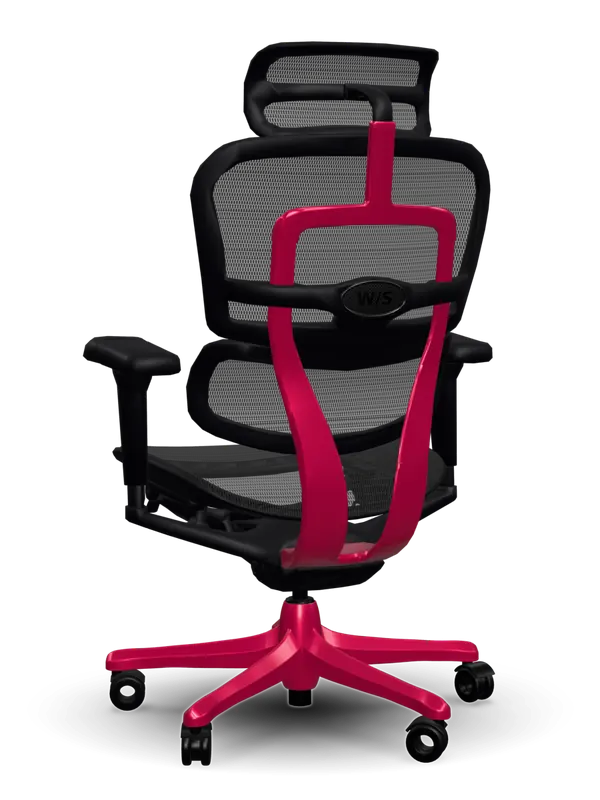
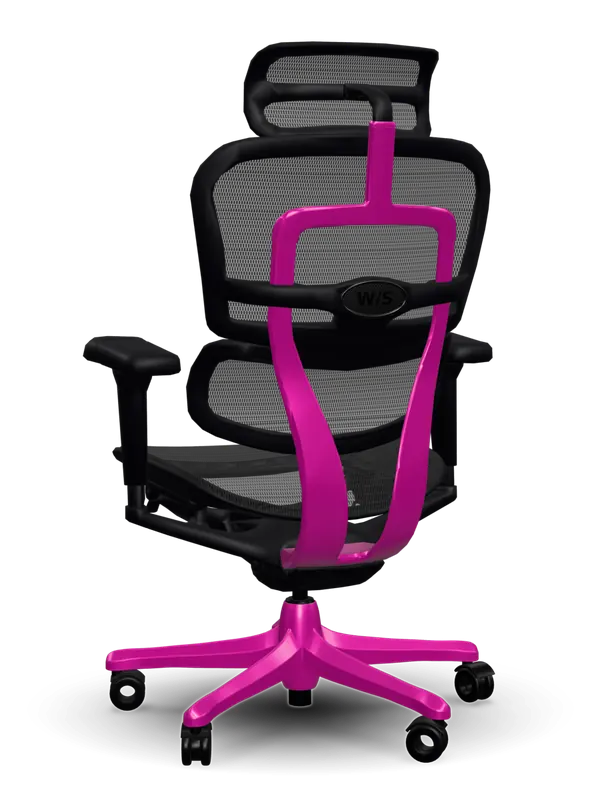
Workspace's colors: Proton Sparkle in Hulk Green's place, and Dazzling Pink in the magenta of its photographs
Follows 1914c69, which brought in the photographs (Dom's call of 27 Nov, as the session on his Mac
relayed it): Hulk Green, too near Mantis Green, gives its place among the sixteen to Proton Sparkle, a
paint that goes from maroon to copper; and Dazzling Pink's photographs are the Luxury Pink set, so its
value is their magenta and not the pink-red it was. Both values are taken from the paint in the
photographs. The chair's stills are made again for the two (tools/chair-mockups.cjs), Hulk Green's is
gone. No color has one upright photograph by itself any more, so the check of that layout goes, and
the pair is checked on Giallo Yellow. The checks also say that a tray added to is the eight again on
the next visit. The real store's Products row is Shrug's to change.

Claude-Session: https://claude.ai/code/session_01MeY8wg1fDxHwYAX5r8pd6y

Changed region(s): [[0.45, 0.125, 0.78, 0.7188], [0.18, 0.75, 0.81, 0.9062]]

diff --git a/store/shared/colors.ts b/store/shared/colors.ts
@@ -4,9 +4,9 @@
 //
 // They are Shrug's own: the names, finishes and values are from the Workspace design as redrawn on 25 Nov
 // (the "Sixteen more" board of the Shrug.VIP v1 designs, set from the catalog's swatches converted to sRGB;
-// where a swatch and the reference photographs disagree, as for Hulk Green and Dazzling Pink, the
-// photographs won). The reference photographs are the standard for the paint: a value here is where the
-// match starts. Change one here and everything that shows the color follows.
+// where a swatch and the reference photographs disagree, the photographs won). The reference photographs
+// are the standard for the paint: a value here is where the match starts. Change one here and everything
+// that shows the color follows.
 
 /** How a paint is finished. One paint material, in seven settings (and Matte Leather's, which has no gloss). */
 export type Finish = 'matte' | 'gloss' | 'pearl' | 'metallic' | 'shift' | 'holo' | 'uv'
@@ -41,11 +41,14 @@ export const MORE_COLORS: MoreColor[] = [
   { id: 'nuclear-pink', name: 'Nuclear Pink', color: '#fa9a9a', finish: 'uv' },
   { id: 'championship-green', name: 'Championship Green', color: '#0b9d6e', finish: 'metallic' },
   { id: 'interstellar-black', name: 'Interstellar Black', color: '#2d3140', finish: 'holo', shift: ['#23242e', '#4f6488', '#6a5690', '#2d3140'] },
-  { id: 'hulk-green', name: 'Hulk Green', color: '#42a549', finish: 'metallic' },
+  // (Proton Sparkle took Hulk Green's place on 27 Nov, Hulk Green being too near Mantis Green: a paint that goes
+  // from maroon to copper, its values taken from the paint in its own photographs)
+  { id: 'proton-sparkle', name: 'Proton Sparkle', color: '#9a4c36', finish: 'shift', shift: ['#561d1a', '#9a4c36', '#d07c58'] },
   { id: 'reserve-green', name: 'Reserve Green', color: '#978d47', finish: 'shift', shift: ['#15431d', '#3e7839', '#b98e44', '#f5c077'] },
   { id: 'nuclear-green', name: 'Nuclear Green', color: '#aaf68e', finish: 'uv' },
   { id: 'nuclear-violet', name: 'Nuclear Violet', color: '#e9a6e8', finish: 'uv' },
-  { id: 'dazzling-pink', name: 'Dazzling Pink', color: '#ce184e', finish: 'metallic' },
+  // (Dazzling Pink is the magenta of its photographs, which since 27 Nov are the Luxury Pink set: it was a pink-red)
+  { id: 'dazzling-pink', name: 'Dazzling Pink', color: '#e434a6', finish: 'metallic' },
   { id: 'palleon-panther', name: 'Palleon Panther', color: '#939f9b', finish: 'shift', shift: ['#9da2aa', '#8fb8b0', '#8fa9c9'] },
   { id: 'giallo-yellow', name: 'Giallo Yellow', color: '#f2c81b', finish: 'gloss' },
   // (Manhattan Blue took Tiffany Blue's place on the launch list of 27 Nov: a pale aqua metallic, its value taken

diff --git a/README.md b/README.md
@@ -56,7 +56,7 @@ A new window opens where it covers least of the others, and clear of what sits o
 - **Photographs**, in Wallpapers. The window has two sections now: the five colorways, and Photographs, twenty by the team, four across (design/v1, "Wallpapers"). One opens large, with which of the twenty it is, its title and who took it, Download and Set as Wallpaper. None has been supplied (`src/data/photographs.ts`): the demo shows the twenty as tones with templated titles and both buttons off, and the live site shows only the ones that are there, and no Photographs section until there is one. For a photograph to be set as the wallpaper it has also to be among the desk's own pictures, which `tools/wallpaper.cjs` writes.
 - **A message to Shrug, on the desktop** (design/v1, "Group Chat"; `src/apps/Write.tsx`). Messages is two panes side by side, as on a Mac. The pencil at the head of the conversation's pane starts a message whose only recipient is Shrug, as the compose button does on the iPhone; it is a row at the head of the list, New Message, which stays there while another conversation is looked at, until its x puts it away (and what was typed with it). A subject can be picked, of three: Add a testimonial, Request an intro (a name, and who), Request a meeting (a name, an email, and files: ten of 25 MB each). Or it is simply typed and sent, as a message is: the subjects are offered until something is typed, and after a message the offer is "More to say?". The plus for files is there once a message is begun. Sent, it is in the conversation under its subject. Delivery is honest: it goes to the site's inbox where there is one (`SITE.contact.inbox`: `api/message.js`, switched on with `VITE_INBOX`), and with none a live site says Not Delivered, with Try Again, and never Delivered. The demo, which stands in for everything else, shows it as Delivered and says under it that nothing was sent.
 - **The art's widget** (`src/os/ArtWidget.tsx`; Niv, 27 Nov) is on the desk under San Francisco's, the same size: one art piece at a time, drawn as Apple's News widget is (Dom, 27 Nov: the artwork itself fills the widget, and over its foot, in white, is ArtStore with the piece's name under it, as a headline is under its paper's name; it was the piece's photograph on white with small gray words), each of the pieces that has its photograph in turn (seven seconds each, the next coming up through the last), with its name. It is the way into ArtStore from the desk: pressed, ArtStore opens on the piece that is showing. It shows what the site already has (the product shots, by the names Shrug gives the pieces: `ART` in `store/src/pictures.ts`), so nothing is asked of the store until it is pressed; it keeps still on a desk asked to (`?still`). New windows are kept clear of San Francisco's widget and so, beside it, of this one; one that opens lower down may lie over it, as a window on a Mac lies over a widget (kept clear of too, it took the left of the desk from new windows, which then opened on one another). **ArtStore's icon** is Dom's own picture for it (27 Nov; `public/icons/artstore.webp`): a collage in the pieces' reds and blues, on the same tile every app is drawn on, on the desk and on the phone alike. (It was a picture hung on a gallery wall, drawn here; and before that an open book of colored leaves, which read as another Books.)
-- **Workspace** (design/v1-workspace, WORKSPACE.md, and Dom's notes after testing; `src/apps/Workspace.tsx`) is in the Dock between Mail and ArtStore: the chair, chosen and bought here. It opens, every time, 1100 by 720 on a slab for each color (Matte Leather and seven paints) and one for **sixteen more colors**, each saying how it is to be had; a slab widens under the pointer to show the chair in its color. The sixteen more are a grid of four by four that fills a sheet over the window, each a slab of its color with its name (`store/shared/colors.ts`: Shrug's own twenty-four, eight and sixteen, as the design has them; Illusion Blue is among the eight and Championship Green among the sixteen). **Every color can be bought**: the eight are available now, and the sixteen ("Custom Coloring" on the last slab) are made to order in two to three weeks (Dom, 26 Nov). A color picked floods the window: the studio is that color, its name huge behind the chair (a long name is set smaller, to fit the window), the words in near-black or white, whichever reads on it (and black on the few mid-tones where neither does: `inkOn` in `src/data/workspace.ts`). The chair is on a turntable, turned by a drag or the arrow keys, and **its gallery is beside it** where it has one (the 3D chair and each slide, on the stage in turn). **The chair's photography has a folder for each color** (`store/public/pictures/workspace/<color>/`, Shrug's selects of 27 Nov), with two sets in it. `gallery/` is what Workspace shows in its window, a slide at a time, and a slide is one of three things, which its file's name says: **a landscape photograph, which fills the window** (`01__X.jpg`); **two upright ones side by side, which fill it between them** (`02-pair-left__X.jpg`, `02-pair-right__Y.jpg`); or **one upright one, whole, inside it**, on a blur of itself (`03-portrait__X.jpg`). A color whose gallery is all upright is shown with those last two alone. `checkout/` is **the upright studio shots for the page the chair is bought on**, one to three of them, the first its hero: each has a page to itself and is shown whole, in a tile painted beside it as the shot's own two edges are from top to foot, so that a white studio or a grey one seems to run on to the tile's edges (a color with one shot has no arrows and no dots; on a shelf the hero is whole in its tile the same way, where it used to be cut to it). All twenty-four colors have their folder (139 photographs, Shrug's selects of 27 Nov, each kept as it came). `python3 -I tools/chair-photos.py "<Shrug's folder>"` brings them in: each file is copied byte for byte (it is the largest size the pages have, and is not made again), two smaller copies are made beside it for small and plain screens, and what there is of each color is written to `store/src/chair-photos.json`, which is all the pages read (`galleryOf` and `shotsOf` in `store/src/pictures.ts`; `--check` reports on a folder without copying). Each photograph's alt text is "[Color] Workspace chair" and what it is a view of ("from behind", "close-up of the back", "at a desk"), which `tools/chair-photo-views.json` says for every one of them; `python3 tools/chair-photos.py --again` writes those, and each studio shot's edges, into the list from the copies already here. (Until these arrived a chair's page showed pictures made from its model in a white studio: they are gone, and a color with no folder would show the drawing anything without a picture does. `tools/chair-mockups.cjs --alone` still makes the chair alone that a slab and the studio's still show.) **Manhattan Blue** took Tiffany Blue's place on the launch list: a pale aqua metallic, its value taken from its photographs. The colors are in a small glass tray of dots: the eight, then any of the sixteen that has been picked (it is added to the tray and stays), and at the end the dot that lets the sixteen down. The foot is one row at every width, so in a narrower window the tray holds fewer dots, and those it has no room for are in the grid with the sixteen. Under the tray is **who owns one**, in words alone (the dots of color that stood before them read as more colors to pick), which leads to Notable Owners, where a card is its owner's words, name and color with no picture of the chair on it. **Everything in the window is as large as the window makes it**: the type, the tray, the chair and the room about them are measured in one unit (`--wsu` in `src/styles/desk/workspace.css`, one pixel in the window as it opens) that grows and shrinks with the window, so a window dragged larger or smaller is laid out as it is when it opens. **The chair's photographs come in by themselves** (the push): after the 3D chair has been looked at for nine seconds its first photograph that fills the window pushes in from the right, then the next, each pushing the last off, and then the chair comes back and it goes round again; the picture that comes next has a line filling along the foot of its place in the strip, and is held ready out of sight so that it is whole when its turn comes. It stops for good, for that color, as soon as a picture is picked or the chair is taken hold of, and nothing moves by itself for someone who has asked for less motion, on a desk asked to keep still (`?still`) or while the window is out of sight. Picking a picture pushes the same way: on from the right, back from the left. **The price is the store's** (Matte Leather from $1,100, a painted chair from $1,200) **and is said only to someone logged in**: a visitor's button is "Log in to enquire", and the server does not send a visitor the figures. A photograph, where a color has one, fills the window from edge to edge, with a shade at its foot for the words. **Buy opens the store's own page for that chair inside this window** (the same checkout as ArtStore and Books, in dollars, with points to bring it down and the address on file), **in the chair's own color from there to the receipt** (`?c=` and `tint` in `store/src/room.ts`), with the other colors along its foot and a way back. Buying a chair awards 200 points, which the receipt says. Alexandrite is a color-shifting paint: the cove is its colors, and the chair's paint moves through them as it turns. In the bar are **BTS**, a wall of how a chair is made (Shrug's own photographs of the paint booth and the set, and tiles where films will go, laid out as a wall of pictures where Notable Owners is a grid of cards; a photograph opens large over the window, and a press beside it or its x puts it away), and Notable Owners; each, and buying, has a Back to the color being looked at. The color picked is kept (for the browser), and the Workspace icon in the Dock is drawn in it. The chair is drawn twice: a still of it at once (a picture of the model in that color, from the same tool: `public/workspace/chairs/`, which is also the chair on a slab under the pointer and on an owner's card; each slab holds its chair from the start, loaded and unseen, so that pointing at one shows it at once), and over it the chair in 3D (three.js, fetched only when the studio opens, and drawn only when something changes) where the browser can. **The 3D chair is Dom's own model of the real one** (`public/workspace/chair.glb`, supplied on 25 Nov and served made lighter to fetch, 1.6 MB for 5.7, with nothing of it joined or renamed: `src/apps/workspace/stage.ts` says how a newer file is put in its place). It is recolored as the file says to be, by its material Paint (the frame up the back and the five-star base), and its mesh is see-through in four panels. The store's picture of the chair in each color is taken from it. Each color is one value in `src/data/workspace.ts`, and everything that shows the color is drawn from it; those values are working ones, not final. Still Shrug's to supply: a line on each color, photographs of each, the films for BTS, and the owners who have agreed to be named (Notable Owners, and the line under the colors, are left out of the live site until one has).
+- **Workspace** (design/v1-workspace, WORKSPACE.md, and Dom's notes after testing; `src/apps/Workspace.tsx`) is in the Dock between Mail and ArtStore: the chair, chosen and bought here. It opens, every time, 1100 by 720 on a slab for each color (Matte Leather and seven paints) and one for **sixteen more colors**, each saying how it is to be had; a slab widens under the pointer to show the chair in its color. The sixteen more are a grid of four by four that fills a sheet over the window, each a slab of its color with its name (`store/shared/colors.ts`: Shrug's own twenty-four, eight and sixteen, as the design has them; Illusion Blue is among the eight and Championship Green among the sixteen). **Every color can be bought**: the eight are available now, and the sixteen ("Custom Coloring" on the last slab) are made to order in two to three weeks (Dom, 26 Nov). A color picked floods the window: the studio is that color, its name huge behind the chair (a long name is set smaller, to fit the window), the words in near-black or white, whichever reads on it (and black on the few mid-tones where neither does: `inkOn` in `src/data/workspace.ts`). The chair is on a turntable, turned by a drag or the arrow keys, and **its gallery is beside it** where it has one (the 3D chair and each slide, on the stage in turn). **The chair's photography has a folder for each color** (`store/public/pictures/workspace/<color>/`, Shrug's selects of 27 Nov), with two sets in it. `gallery/` is what Workspace shows in its window, a slide at a time, and a slide is one of three things, which its file's name says: **a landscape photograph, which fills the window** (`01__X.jpg`); **two upright ones side by side, which fill it between them** (`02-pair-left__X.jpg`, `02-pair-right__Y.jpg`); or **one upright one, whole, inside it**, on a blur of itself (`03-portrait__X.jpg`). A color whose gallery is all upright is shown with those last two alone. `checkout/` is **the upright studio shots for the page the chair is bought on**, one to three of them, the first its hero: each has a page to itself and is shown whole, in a tile painted beside it as the shot's own two edges are from top to foot, so that a white studio or a grey one seems to run on to the tile's edges (a color with one shot has no arrows and no dots; on a shelf the hero is whole in its tile the same way, where it used to be cut to it). All twenty-four colors have their folder (139 photographs, Shrug's selects of 27 Nov, each kept as it came). `python3 -I tools/chair-photos.py "<Shrug's folder>"` brings them in: each file is copied byte for byte (it is the largest size the pages have, and is not made again), two smaller copies are made beside it for small and plain screens, and what there is of each color is written to `store/src/chair-photos.json`, which is all the pages read (`galleryOf` and `shotsOf` in `store/src/pictures.ts`; `--check` reports on a folder without copying). Each photograph's alt text is "[Color] Workspace chair" and what it is a view of ("from behind", "close-up of the back", "at a desk"), which `tools/chair-photo-views.json` says for every one of them; `python3 tools/chair-photos.py --again` writes those, and each studio shot's edges, into the list from the copies already here. (Until these arrived a chair's page showed pictures made from its model in a white studio: they are gone, and a color with no folder would show the drawing anything without a picture does. `tools/chair-mockups.cjs --alone` still makes the chair alone that a slab and the studio's still show.) **Manhattan Blue** took Tiffany Blue's place on the launch list: a pale aqua metallic, its value taken from its photographs. The colors are in a small glass tray of dots: the eight, then any of the sixteen that has been picked (it is added to the tray and stays for the visit: every time the site is loaded the studio opens on the eight alone, Dom, 27 Nov), and at the end the dot that lets the sixteen down. The foot is one row at every width, so in a narrower window the tray holds fewer dots, and those it has no room for are in the grid with the sixteen. Under the tray is **who owns one**, in words alone (the dots of color that stood before them read as more colors to pick), which leads to Notable Owners, where a card is its owner's words, name and color with no picture of the chair on it. **Everything in the window is as large as the window makes it**: the type, the tray, the chair and the room about them are measured in one unit (`--wsu` in `src/styles/desk/workspace.css`, one pixel in the window as it opens) that grows and shrinks with the window, so a window dragged larger or smaller is laid out as it is when it opens. **The chair's photographs come in by themselves** (the push): after the 3D chair has been looked at for nine seconds its first photograph that fills the window pushes in from the right, then the next, each pushing the last off, and then the chair comes back and it goes round again; the picture that comes next has a line filling along the foot of its place in the strip, and is held ready out of sight so that it is whole when its turn comes. It stops for good, for that color, as soon as a picture is picked or the chair is taken hold of, and nothing moves by itself for someone who has asked for less motion, on a desk asked to keep still (`?still`) or while the window is out of sight. Picking a picture pushes the same way: on from the right, back from the left. **The price is the store's** (Matte Leather from $1,100, a painted chair from $1,200) **and is said only to someone logged in**: a visitor's button is "Log in to enquire", and the server does not send a visitor the figures. A photograph, where a color has one, fills the window from edge to edge, with a shade at its foot for the words. **Buy opens the store's own page for that chair inside this window** (the same checkout as ArtStore and Books, in dollars, with points to bring it down and the address on file), **in the chair's own color from there to the receipt** (`?c=` and `tint` in `store/src/room.ts`), with the other colors along its foot and a way back. Buying a chair awards 200 points, which the receipt says. Alexandrite is a color-shifting paint: the cove is its colors, and the chair's paint moves through them as it turns. In the bar are **BTS**, a wall of how a chair is made (Shrug's own photographs of the paint booth and the set, and tiles where films will go, laid out as a wall of pictures where Notable Owners is a grid of cards; a photograph opens large over the window, and a press beside it or its x puts it away), and Notable Owners; each, and buying, has a Back to the color being looked at. The color picked is kept (for the browser), and the Workspace icon in the Dock is drawn in it. The chair is drawn twice: a still of it at once (a picture of the model in that color, from the same tool: `public/workspace/chairs/`, which is also the chair on a slab under the pointer and on an owner's card; each slab holds its chair from the start, loaded and unseen, so that pointing at one shows it at once), and over it the chair in 3D (three.js, fetched only when the studio opens, and drawn only when something changes) where the browser can. **The 3D chair is Dom's own model of the real one** (`public/workspace/chair.glb`, supplied on 25 Nov and served made lighter to fetch, 1.6 MB for 5.7, with nothing of it joined or renamed: `src/apps/workspace/stage.ts` says how a newer file is put in its place). It is recolored as the file says to be, by its material Paint (the frame up the back and the five-star base), and its mesh is see-through in four panels. The store's picture of the chair in each color is taken from it. Each color is one value in `src/data/workspace.ts`, and everything that shows the color is drawn from it; those values are working ones, not final. Still Shrug's to supply: a line on each color, photographs of each, the films for BTS, and the owners who have agreed to be named (Notable Owners, and the line under the colors, are left out of the live site until one has).
 - **After the QA pass** (each screen set beside Dom's reference at the same scale, and four passes through every window by hand). What changed in how things behave, beyond what is drawn:
   - *Weather* is to the Mac's own measures (its head, its tiles, its pane of places), with a sky's picture filled as the Mac's are (`src/apps/weather/Glyph.tsx`); the sky is a shade darker behind the place's name, so that a white cloud passing behind it does not hide it; today's line has the head's high and low; its times and days are English on the visitor's own clock, and a wind is in miles or kilometres an hour as they count it; with no forecast its sky is an even grey.
   - *Mail*: a narrow window puts the pane away and lets the splits scroll; a new message keeps the pane, which is then about Shrug; Return in its head moves on and only Command Return sends; what is being written is kept for the tab; J and K in a conversation stay in the list being read.

diff --git a/tests/README.md b/tests/README.md
@@ -32,7 +32,7 @@ Run against a build (`all.sh` does), not only the dev server: the dev server kee
 | `mail` | Mail: in the Dock after Case Studies; its inbox of twenty with the splits and their counts close against their names, with no Done among them (G then E goes to it, where the bar says Done and has an arrow back); no rail of icons; a row's own buttons (Mark Done, Mail Command) and the pointing hand; Superhuman's keys for moving about; what is not here saying so; what is real and kept in the browser (E to Done and Z back, S to star, U unread, across a reload); E inside a conversation going on to the next one; the row under the pointer being the row it is on, and a key taking the list back; a conversation with no banner along its foot; a conversation whose emails open and close; Share, which copies a link that opens the conversation on the desk; the lightning bolt and Command K opening the palette on what can be done here; search; every key on one sheet; Inbox Zero; and a new message to Shrug written in Mail itself (R from a conversation with its subject, C or the pen from anywhere: what is missing said before anything is sent, Escape putting it by with nothing lost, Command Return sending it, which the demo shows as sent and says was not, and the bin discarding it) |
 | `desk-apps` | The desk's other icons and what they open: the eight icons in one line (and a second on a short screen, none under the Dock); QuickTime Player under Dom's icon (its poster with nothing written over it, the large Play in the middle of its ring, Play and Pause, the end and the next, a window that can be made larger, in the Dock only while open); Spotify with Dom's three lists of podcast episodes (Tech, Culture and Infrastructure: eleven, ten and ten) and two playlists (each episode under its own title and show, Spotify's own player in the Now playing view and not in the bar, the bar at the foot being the buttons that play it over a line of where the episode is (shuffle, previous, play, next, repeat, at Spotify's sizes and in DM Sans; no volume slider; a tooltip and a row's hover; the line's arrow keys), Play, Previous, Next, Shuffle, Repeat and what follows the end of an episode, the view put away and brought back with the episode playing on, the chips over Your Library filtering the library and those over Home filtering Home, a table with what Spotify has of each episode, nothing said of previews); YouTube with Dom's twenty-two videos (YouTube's own logo, no menu button, each video under its own title and channel with its own still, playing as the window opens with its sound off, a video picked playing with its sound, the next beginning when one ends, Play all, the field searching this playlist, Theater mode and T); Wallpapers' photographs; a message to Shrug in Messages (two panes side by side, the pencil in the conversation's pane, New Message as a row like the others with an x, a subject or simply typing, an intro asking for a name, the plus once a message is begun, delivery said honestly); and Photo Booth (the door for a visitor, the camera, effects, the count with its camera in the middle, Share to the system's sheet or failing that a file, a posted photo going straight to the wall, the viewer's bar with the camera in its middle and Share at its right, the x that removes one's own, the flag by which anyone logged in marks another's photo for Shrug to look at (it stays on the wall, they are not shown it again, and nobody but its taker is offered the x), and a visitor led back to the door); and Weather (opened from the desk's widget: the window as the sky of the place, its name, temperature, Feels Like and the day's high and low; clouds that drift and rain that falls, and neither for someone who has asked for less motion; the tiles, with Feels Like worked out as the Service works out wind chill; the places, the field that finds one, the button that puts them away; and what it says when the Service does not answer). Spotify, YouTube and the weather service are answered by stand-ins (`lib.cjs`), so nothing depends on any of them |
 | `desk-extras` | What Niv's notes of 27 Nov put on the desk: the art's widget under San Francisco's (the same size, one piece at a time by its name, turning to the next by itself, and opening ArtStore on the piece that is showing, the window clear of it); Portfolio as a folder on the desk as well as an icon in the Dock; an app let go of over the line of icons going into the line beside the one it was let go of over, with nothing lying on anything, and one let go of elsewhere staying where it was put; the locked Updates folder's "Enquire about becoming an LP", which opens a message to Shrug; and the card's page showing someone logged in their card the first time, with the way to sign in never drawn before it (every frame is looked at), while nobody logged in is still shown it. |
-| `workspace` | Workspace: in the Dock between Mail and ArtStore; opening on the color selector every time (under "Your new daily driver": eight slabs, each available now, and "Custom Coloring" for the sixteen more; the chair on a slab under the pointer being the model's own picture, held by each slab from the start so that it is there at once, with nothing fetched and nothing fading it in; no price for a visitor, no "Your own"); the store's page for a chair opening on its product picture, filling its panel; a color picked flooding the window in the design's own values, with its finish and how it is had in two tags; the chair turning; its gallery beside it, Shrug's own photographs in each color: a landscape filling the window edge to edge with a shade at its foot, two uprights side by side as one slide (Dazzling Pink, Interstellar Black, whose galleries are all upright), and one upright whole inside the window, each saying what it shows; who owns one, and Notable Owners with no heading over it; BTS as a wall with no title, and its viewer (over the whole window wherever the wall is scrolled, the picture whole, no words, a small x, a press beside it or Escape to close); "Log in to enquire"; the sixteen more as a sheet four by four under their own names, with no "Owned by"; who owns one in words alone, and owners' cards with no picture of the chair; the window's type, tray and chair growing and shrinking with it; the push (on a desk not asked to keep still, the photographs coming in by themselves after the chair has been looked at, each pushing the last off, until a picture is picked); buying on the store's page inside the window in the chair's own color (its picture Shrug's studio shot of it, whole in its panel, with as many to click through as the color has) through checkout to the receipt, named by its color, with "You earned 200 points for this purchase."; the balance after it; the Dock icon taking and keeping the color; and the chair and its award in My VIP |
+| `workspace` | Workspace: in the Dock between Mail and ArtStore; opening on the color selector every time (under "Your new daily driver": eight slabs, each available now, and "Custom Coloring" for the sixteen more; the chair on a slab under the pointer being the model's own picture, held by each slab from the start so that it is there at once, with nothing fetched and nothing fading it in; no price for a visitor, no "Your own"); the store's page for a chair opening on its product picture, filling its panel; a color picked flooding the window in the design's own values, with its finish and how it is had in two tags; the chair turning; its gallery beside it, Shrug's own photographs in each color: a landscape filling the window edge to edge with a shade at its foot, two uprights side by side as one slide (Giallo Yellow's last, and Interstellar Black's only one; one upright by itself would be whole inside the window, and no color has one since 27 Nov), each saying what it shows; who owns one, and Notable Owners with no heading over it; BTS as a wall with no title, and its viewer (over the whole window wherever the wall is scrolled, the picture whole, no words, a small x, a press beside it or Escape to close); "Log in to enquire"; the sixteen more as a sheet four by four under their own names (each added to the tray when picked, for that visit: loaded again, the tray is the eight), with no "Owned by"; who owns one in words alone, and owners' cards with no picture of the chair; the window's type, tray and chair growing and shrinking with it; the push (on a desk not asked to keep still, the photographs coming in by themselves after the chair has been looked at, each pushing the last off, until a picture is picked); buying on the store's page inside the window in the chair's own color (its picture Shrug's studio shot of it, whole in its panel, with as many to click through as the color has) through checkout to the receipt, named by its color, with "You earned 200 points for this purchase."; the balance after it; the Dock icon taking and keeping the color; and the chair and its award in My VIP |
 | `account` | Log In at the right of the menu bar (the sheet, an address, six digits, a wrong code), the LP Updates folder it puts on the desk and what is in it, a download, a reload, Log Out, and that a visitor and a phone have neither. It runs against the demo's stand-in (`src/os/account.ts`) |
 | `layout` | The icons can be dragged: one moved about the desk stays where it is put and opens nothing; an app's icon is dropped from the desk into the Dock, moved along the Dock, and dragged out of it onto the desk; a file stays on the desk and the Dock's first icon stays put; a window that opens keeps clear of the line of icons still down the right; and where everything is is kept for whoever is logged in (it comes back after a reload, and a visitor's desk is as it comes) |
 | `between-apps` | What happens between apps on the iPhone (an app opening out of its icon frame by frame, its launch screen, being carried off by hand), the Exit buttons of Notes and Messages, a message to Shrug with files, Back leading back out to a folder, and on the desktop the widget and the redrawn icons |
